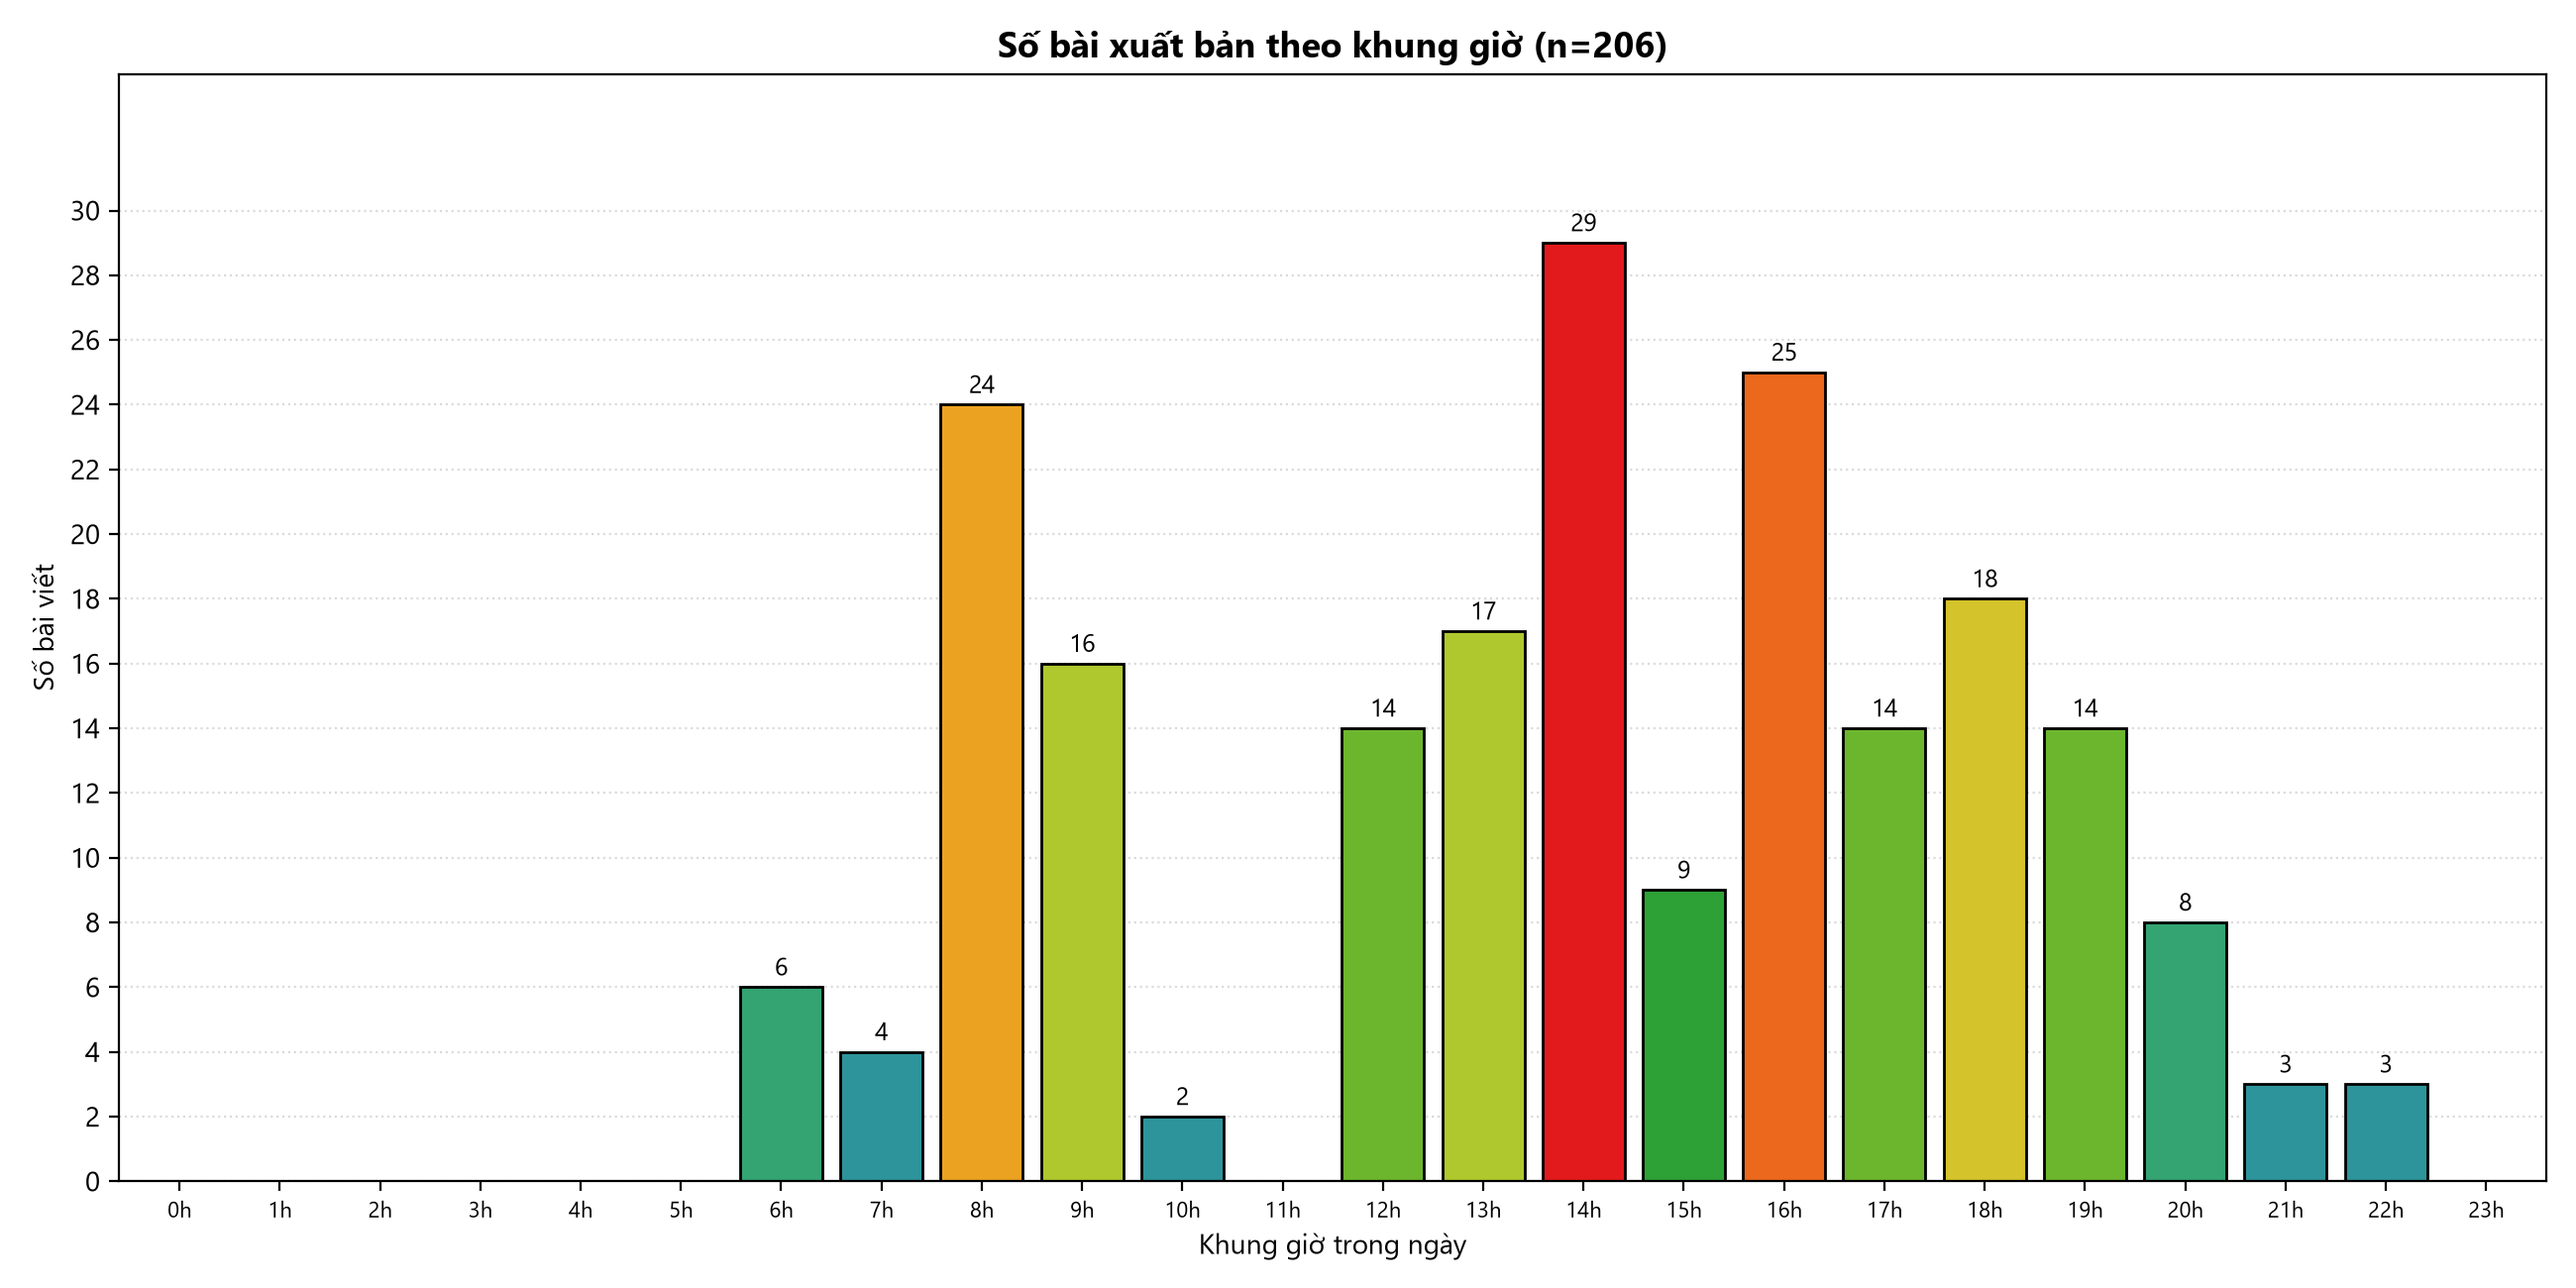
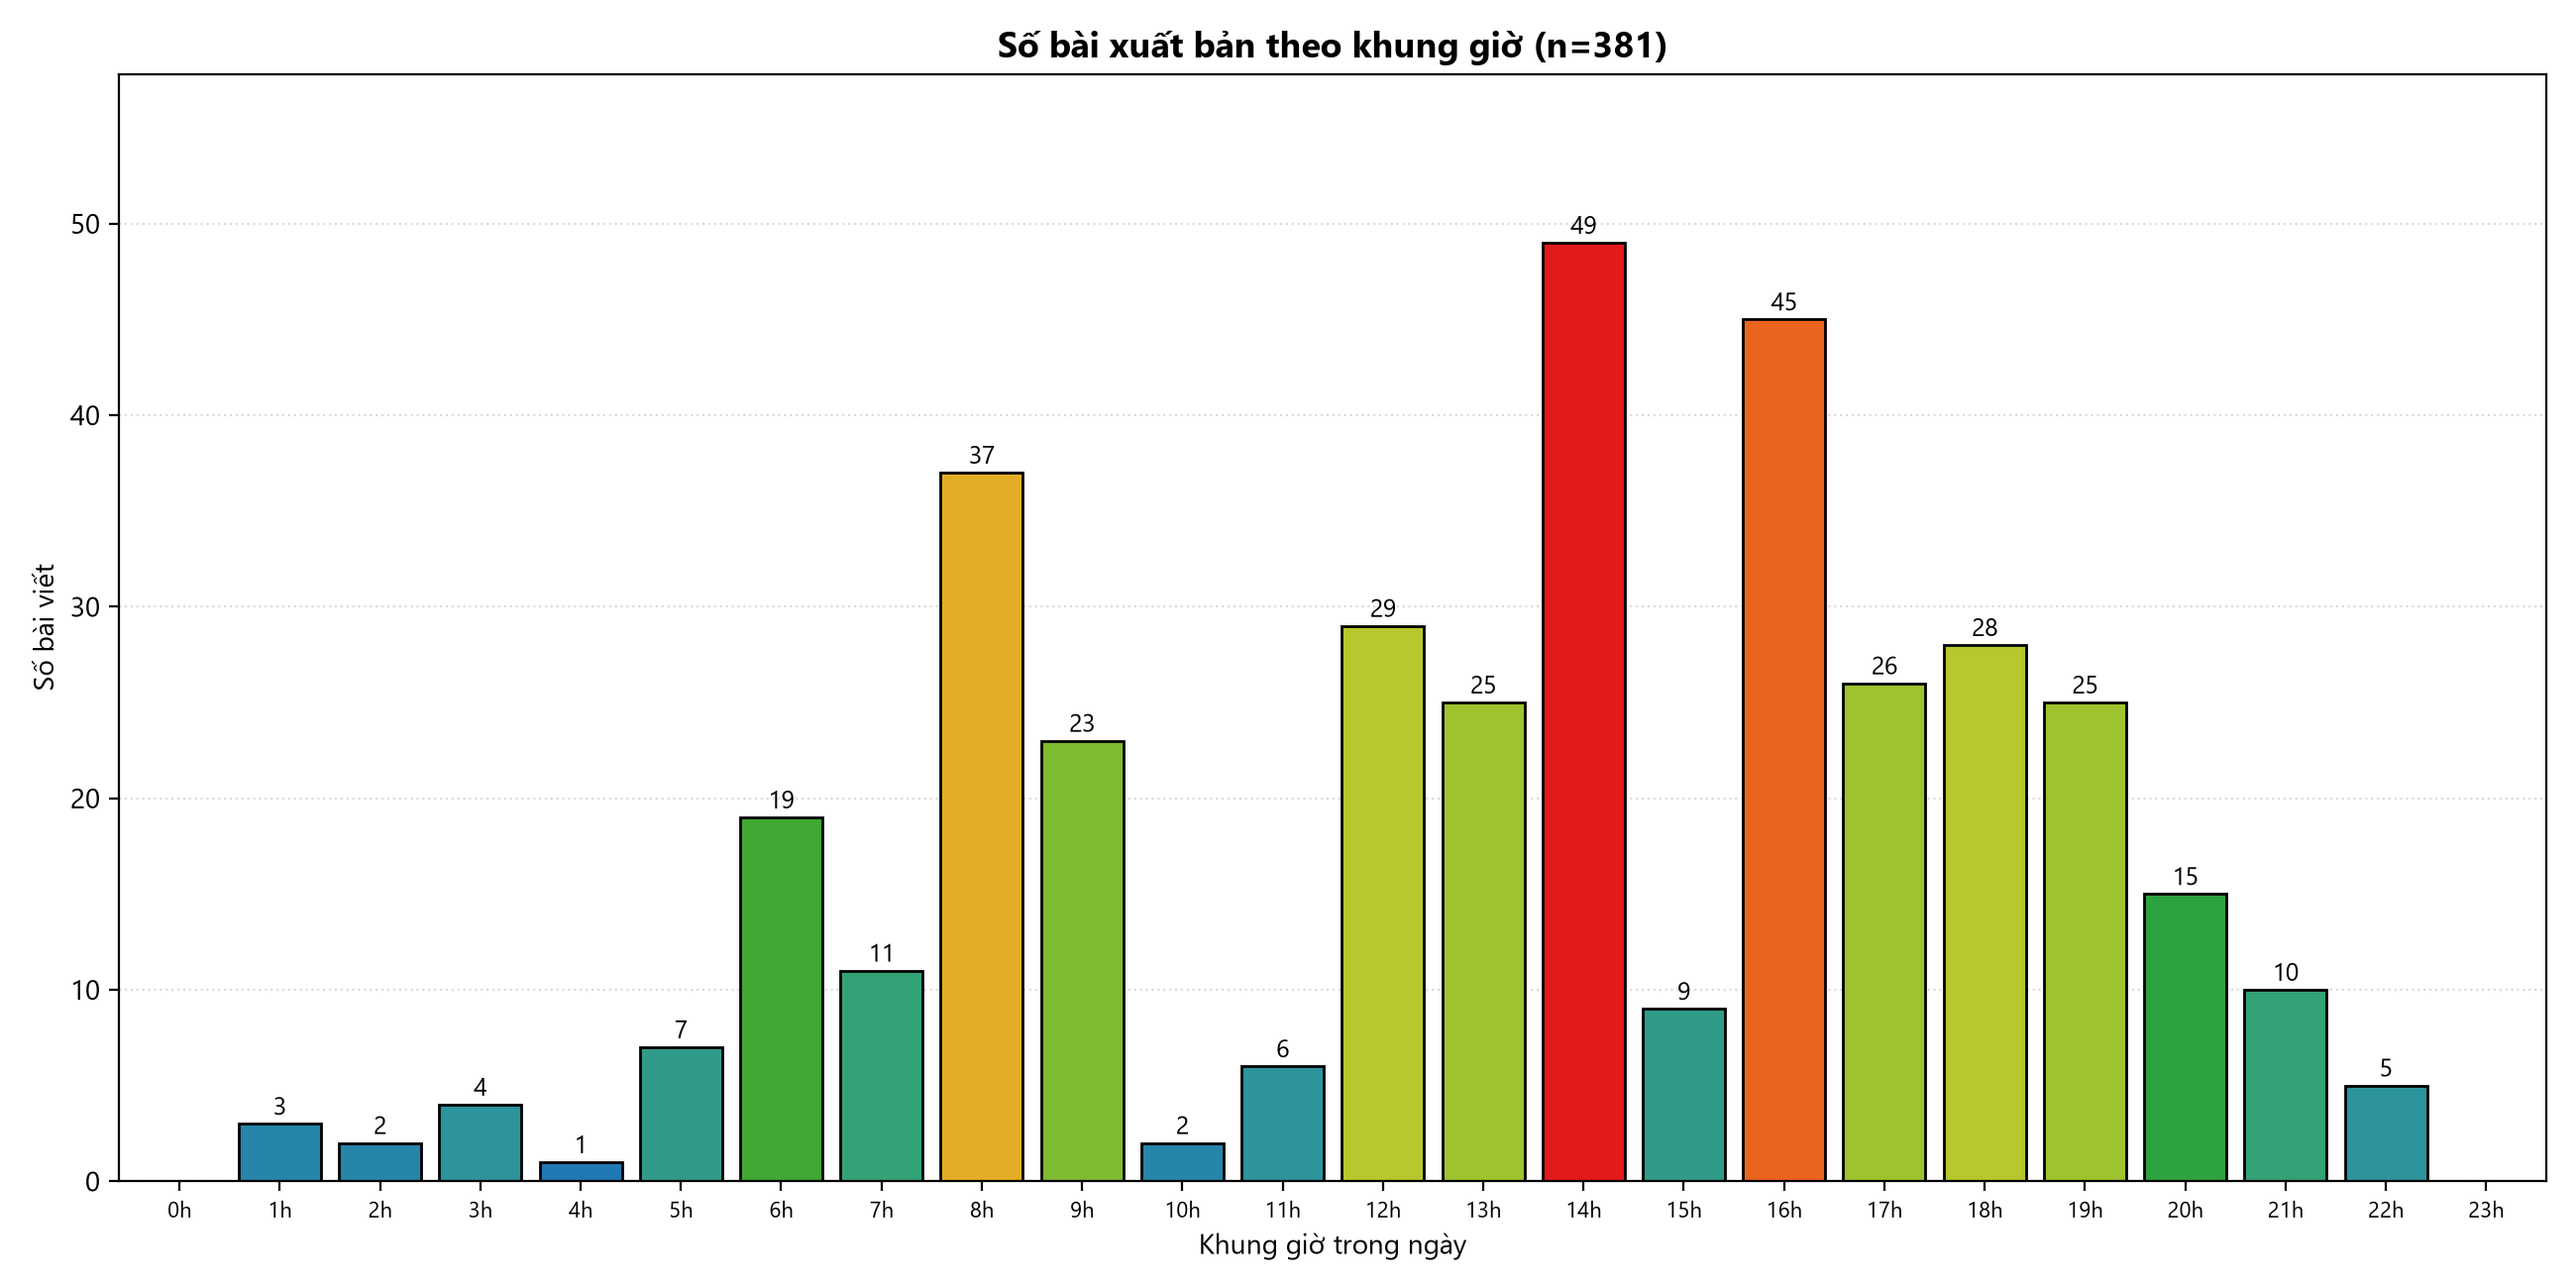
Cập nhật bảng màu 20 bậc, bỏ mốc trục thủ công và vẽ lại 4 biểu đồ

diff --git a/EDA + charts/Charts.py b/EDA + charts/Charts.py
@@ -18,9 +18,11 @@ plt.rcParams["axes.unicode_minus"] = False
 # Thư mục lưu file biểu đồ đầu ra (cùng thư mục với script này)
 SAVE_DIR = os.path.dirname(os.path.abspath(__file__))
 
-#Bảng 10 màu rời cách đều: thấp nhất = xanh biển -> giữa = xanh lá -> cao nhất = đỏ
-PALETTE = ["#1f78b4", "#2e949b", "#34a473", "#2da136", "#6cb62e",
-           "#afc82e", "#d4c32b", "#eca221", "#eb681d", "#e31a1c"]
+#Bảng 20 màu rời cách đều: thấp nhất = xanh biển -> giữa = xanh lá -> cao nhất = đỏ
+PALETTE = ["#1f78b4", "#2685a8", "#2d939c", "#319b8a", "#33a277",
+           "#31a35d", "#2ea140", "#41a833", "#5fb230", "#7ebb2e",
+           "#9dc32e", "#b7c72d", "#c8c52c", "#d8be29", "#e3ae25",
+           "#ec9c21", "#eb801f", "#eb641d", "#e73f1c", "#e31a1c"]
 
 #get_data_from_sql: truy vấn dữ liệu bài báo từ SQL Server và trả về pandas DataFrame
 def get_data_from_sql():
@@ -36,7 +38,7 @@ def get_data_from_sql():
     conn.close()
     return df
 
-#mau_theo_gia_tri: gán mỗi giá trị vào 1 trong 10 bậc màu cách đều trên đoạn [min, max]
+#mau_theo_gia_tri: gán mỗi giá trị vào 1 trong 20 bậc màu cách đều trên đoạn [min, max]
 def mau_theo_gia_tri(values):
     vmin, vmax = min(values), max(values)
     if vmax == vmin:
@@ -64,7 +66,6 @@ def ve_bieu_do_1(df):
     ax.set_title(f"Số bài theo chuyên mục (n={len(df)})", fontsize=13, fontweight="bold")
     ax.set_xlabel("Số lượng bài viết")
     ax.set_xlim(0, cat.max() * 1.18)
-    ax.set_xticks(range(cat.max() + 1))
     ax.grid(axis="x", linestyle=":", alpha=0.45)
     ax.set_axisbelow(True)
     luu_anh(fig, "bieu_do_1_chuyen_muc.png")
@@ -89,7 +90,6 @@ def ve_bieu_do_2(df):
     ax.tick_params(axis="x", labelsize=8)
     ax.set_xlim(-0.6, 23.6)
     ax.set_ylim(0, dem.max() * 1.18)
-    ax.set_yticks(range(0, dem.max() + 2, 2))
     ax.grid(axis="y", linestyle=":", alpha=0.45)
     ax.set_axisbelow(True)
     luu_anh(fig, "bieu_do_2_phan_bo_gio.png")
